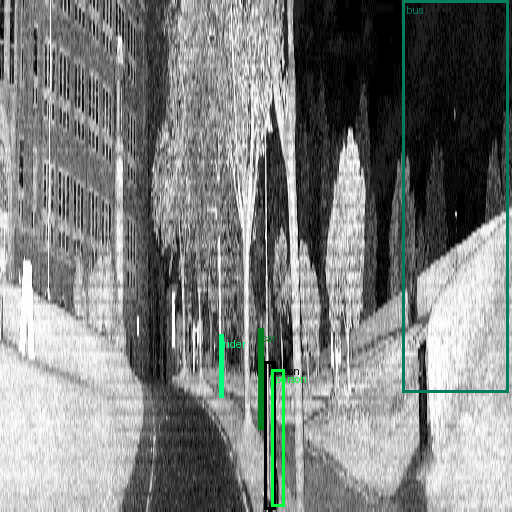
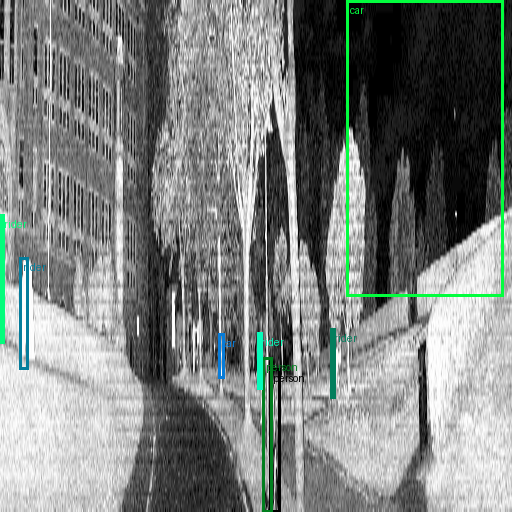
progressive resize progressive lowered LR

diff --git a/project/trainer.py b/project/trainer.py
@@ -289,6 +289,13 @@ def prog_res():
                 resize_dims=[size, size]
             )
         
+        if size == 256:
+            config.max_epochs = 10
+            config.max_lr = 0.0005
+            
+        elif size == 512:
+            config.max_epochs = 10
+            config.max_lr = 0.00005
 
         if i > 0:
             checkpoint_folder = f"/work/baardrw/checkpoints/{config.wandb_project}/{config.wandb_experiment_name}/"
@@ -300,6 +307,8 @@ def prog_res():
         
         
         config.wandb_experiment_name = f"{config.wandb_experiment_name.split('@')[0]}@{size}"
+        
+        
         
         trainer = pl.Trainer(
         devices=config.devices, 

diff --git a/project/datasets/nl_datamodule.py b/project/datasets/nl_datamodule.py
@@ -82,10 +82,9 @@ class NapLabDataModule(pl.LightningDataModule):
 
             return v2.Compose([
                 *shared_transforms,
-                v2.RandomApply([v2.RandomRotation(degrees=15), v2.RandomHorizontalFlip(),v2.RandomPhotometricDistort(), v2.RandomVerticalFlip(p=0.2), v2.RandomHorizontalFlip(p=1.0)], p=0.5),
+                v2.RandomApply([v2.RandomRotation(degrees=15), v2.RandomHorizontalFlip(), v2.ColorJitter(brightness=0.5)], p=0.3),
                 v2.SanitizeBoundingBoxes(),
                 v2.Normalize(mean=mean, std=std),
-                
                 
             ])
 
